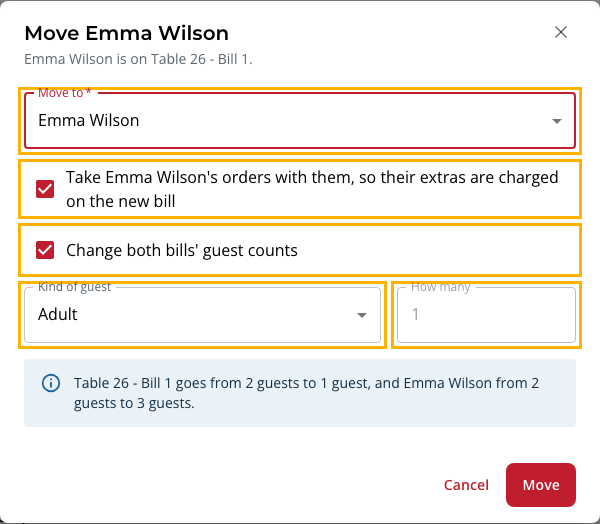
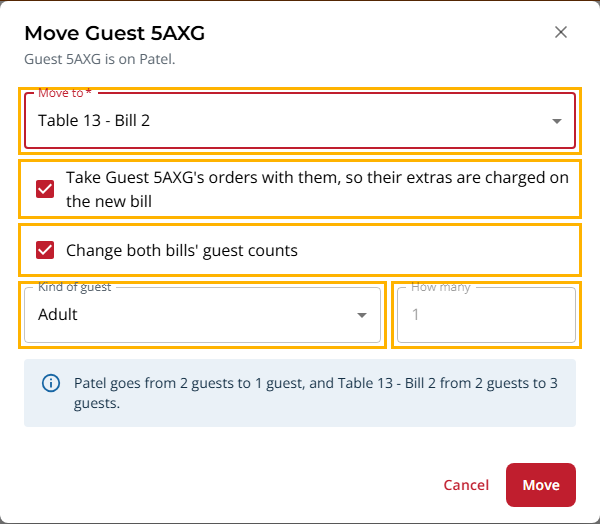
Update admin-manual docs to include splitting a bill with screenshot

diff --git a/src/front-end/e2e/screenshots/admin-manual.shots.js b/src/front-end/e2e/screenshots/admin-manual.shots.js
@@ -27,14 +27,20 @@ const settle = async (page) => {
   });
   await page
     .getByText("DEV · Reset")
-    .evaluateAll((els) => els.forEach((el) => (el.closest("button") ?? el).style.setProperty("display", "none")));
+    .evaluateAll((els) =>
+      els.forEach((el) =>
+        (el.closest("button") ?? el).style.setProperty("display", "none"),
+      ),
+    );
   await page.waitForTimeout(500);
 };
 
 /** @param {import('@playwright/test').Page} page */
 const openSessions = async (page) => {
   await page.goto("/staff/dashboard/sessions");
-  await expect(page.getByRole("button", { name: /^View session/ }).first()).toBeVisible();
+  await expect(
+    page.getByRole("button", { name: /^View session/ }).first(),
+  ).toBeVisible();
   await settle(page);
 };
 
@@ -42,7 +48,10 @@ const openSessions = async (page) => {
 /** @param {import('@playwright/test').Page} page */
 const openBusiestSession = async (page) => {
   const multiBill = page.getByRole("row").filter({ hasText: / of [2-9]/ });
-  const row = (await multiBill.count()) > 0 ? multiBill.first() : page.getByRole("row").nth(1);
+  const row =
+    (await multiBill.count()) > 0
+      ? multiBill.first()
+      : page.getByRole("row").nth(1);
   await row.getByRole("button", { name: /^View session/ }).click();
   const dialog = page.getByRole("dialog");
   await expect(dialog.getByText(/^Dining Session #/)).toBeVisible();
@@ -52,7 +61,9 @@ const openBusiestSession = async (page) => {
 
 test("getting around", async ({ page }) => {
   await page.goto("/");
-  await expect(page.getByRole("heading", { level: 1, name: /^Welcome back/ })).toBeVisible();
+  await expect(
+    page.getByRole("heading", { level: 1, name: /^Welcome back/ }),
+  ).toBeVisible();
   await settle(page);
   await highlight(page.getByLabel("Main menu"));
   await highlight(page.getByLabel(/^Working location/));
@@ -67,14 +78,19 @@ test("sessions list", async ({ page }) => {
 test("session details", async ({ page }) => {
   await openSessions(page);
   const dialog = await openBusiestSession(page);
-  await highlight(dialog.getByRole("button", { name: /^Add order to/ }).first());
+  await highlight(
+    dialog.getByRole("button", { name: /^Add order to/ }).first(),
+  );
   await dialog.screenshot({ path: file("session-details") });
 });
 
 test("bill summary", async ({ page }) => {
   await openSessions(page);
   const sessionDialog = await openBusiestSession(page);
-  await sessionDialog.getByRole("button", { name: /^View .* summary$/ }).first().click();
+  await sessionDialog
+    .getByRole("button", { name: /^View .* summary$/ })
+    .first()
+    .click();
   const summary = page.getByRole("dialog").last();
   await expect(summary).toBeVisible();
   await settle(page);
@@ -83,11 +99,15 @@ test("bill summary", async ({ page }) => {
 
 // The whole MUI text field or select, not just its input
 /** @param {import('@playwright/test').Locator} input */
-const fieldOf = (input) => input.locator('xpath=ancestor::div[contains(@class,"MuiFormControl-root")][1]');
+const fieldOf = (input) =>
+  input.locator(
+    'xpath=ancestor::div[contains(@class,"MuiFormControl-root")][1]',
+  );
 
 // The checkbox and its label text
 /** @param {import('@playwright/test').Locator} checkbox */
-const checkboxRowOf = (checkbox) => checkbox.locator("xpath=ancestor::label[1]");
+const checkboxRowOf = (checkbox) =>
+  checkbox.locator("xpath=ancestor::label[1]");
 
 // Opens each session with more than one open bill until `ready` finds what the shot needs.
 // Closes the dialog and tries the next session when it doesn't.
@@ -99,7 +119,10 @@ const openSessionWhere = async (page, ready) => {
   const rows = page.getByRole("row").filter({ hasText: / of [2-9]/ });
   const count = await rows.count();
   for (let i = 0; i < count; i++) {
-    await rows.nth(i).getByRole("button", { name: /^View session/ }).click();
+    await rows
+      .nth(i)
+      .getByRole("button", { name: /^View session/ })
+      .click();
     const dialog = page.getByRole("dialog");
     await expect(dialog.getByText(/^Dining Session #/)).toBeVisible();
     await settle(page);
@@ -115,27 +138,53 @@ const openSessionWhere = async (page, ready) => {
 // In each session with two or more open bills, people are shared across the open bills
 // (two sample guests if nobody joined), and the first open bill is marked "Started by guest".
 // The keys used here, from DashboardSessionsDto, DashboardBillDto and DashboardPersonDto
-/** @typedef {{ bill_id: number, status: string, people_on_bill?: number, started_by_guest?: boolean }} DashboardBill */
-/** @typedef {{ participant_id: number, user_name: string, bill_id: number | null }} DashboardPerson */
+/** @typedef {{ bill_id: number, status: string, people_on_bill?: number, started_by_guest?: boolean, total_guests?: number, adult_count?: number }} DashboardBill */
+/** @typedef {{ participant_id: number, user_name: string, bill_id: number | null, is_guest?: boolean }} DashboardPerson */
 /** @typedef {{ bills?: DashboardBill[], people?: DashboardPerson[] }} DashboardSession */
-/** @param {import('@playwright/test').Page} page */
-const showPeopleOnBills = (page) =>
+// splittable: gives each open bill at least 2 guests (as adults), so Move can change counts and offer
+// "+ New bill" (a bill must keep one guest). Browser only, like the rest of this mock
+/**
+ * @param {import('@playwright/test').Page} page
+ * @param {{ splittable?: boolean }} [options]
+ */
+const showPeopleOnBills = (page, { splittable = false } = {}) =>
   page.route(/\/api\/dashboard\/sessions/i, async (route) => {
     const response = await route.fetch();
     /** @type {DashboardSession[]} */
     const sessions = await response.json();
     for (const session of Array.isArray(sessions) ? sessions : []) {
-      const open = (session.bills ?? []).filter((b) => /open/i.test(String(b.status)));
+      const open = (session.bills ?? []).filter((b) =>
+        /open/i.test(String(b.status)),
+      );
       if (open.length < 2) continue;
       if (!session.people?.length) {
         session.people = [
-          { participant_id: -1, user_name: "Guest 4F2A", bill_id: null },
-          { participant_id: -2, user_name: "Guest 9C1D", bill_id: null },
+          {
+            participant_id: -1,
+            user_name: "Guest 4F2A",
+            bill_id: null,
+            is_guest: true,
+          },
+          {
+            participant_id: -2,
+            user_name: "Guest 9C1D",
+            bill_id: null,
+            is_guest: true,
+          },
         ];
       }
-      session.people.forEach((person, i) => (person.bill_id = open[i % open.length].bill_id));
+      session.people.forEach(
+        (person, i) => (person.bill_id = open[i % open.length].bill_id),
+      );
       for (const bill of open) {
-        bill.people_on_bill = session.people.filter((p) => p.bill_id === bill.bill_id).length;
+        bill.people_on_bill = session.people.filter(
+          (p) => p.bill_id === bill.bill_id,
+        ).length;
+        const missing = 2 - (bill.total_guests ?? 0);
+        if (splittable && missing > 0) {
+          bill.adult_count = (bill.adult_count ?? 0) + missing;
+          bill.total_guests = 2;
+        }
       }
       open[0].started_by_guest = true;
     }
@@ -143,18 +192,26 @@ const showPeopleOnBills = (page) =>
   });
 
 // A bill a guest started or changed, or with more people than guests
-const GUEST_CHECK_CHIP = /^(Started by guest|Count changed by guest|\d+ people on \d+-guest bill)$/;
+const GUEST_CHECK_CHIP =
+  /^(Started by guest|Count changed by guest|\d+ people on \d+-guest bill)$/;
 
 test("checking guest counts", async ({ page }) => {
   await showPeopleOnBills(page);
   await openSessions(page);
-  const dialog = await openSessionWhere(page, async (d) => (await d.getByText(GUEST_CHECK_CHIP).count()) > 0);
+  const dialog = await openSessionWhere(
+    page,
+    async (d) => (await d.getByText(GUEST_CHECK_CHIP).count()) > 0,
+  );
   const chip = dialog.getByText(GUEST_CHECK_CHIP).first();
   // The bill card: the nearest ancestor that also holds the bill's Edit Guests button
-  const bill = chip.locator('xpath=ancestor::*[.//button[starts-with(@aria-label, "Edit guests on")]][1]');
+  const bill = chip.locator(
+    'xpath=ancestor::*[.//button[starts-with(@aria-label, "Edit guests on")]][1]',
+  );
   await highlight(chip);
   await highlight(bill.getByRole("button", { name: /^Edit guests on/ }));
-  await highlight(bill.getByRole("button", { name: /^(Lock|Unlock) guests on/ }));
+  await highlight(
+    bill.getByRole("button", { name: /^(Lock|Unlock) guests on/ }),
+  );
   await bill.screenshot({ path: file("guest-check") });
 
   await bill.getByRole("button", { name: /^Edit guests on/ }).click();
@@ -167,21 +224,41 @@ test("checking guest counts", async ({ page }) => {
   await edit.screenshot({ path: file("edit-guests-dialog") });
 });
 
+// Each Move button's row (its parent) shows the person's bill, or "Not on a bill yet"
+/** @param {import('@playwright/test').Locator} d */
+const onABill = (d) =>
+  d
+    .getByRole("button", { name: /^Move / })
+    .locator("xpath=..")
+    .filter({ hasNotText: "Not on a bill yet" });
+
 test("moving people between bills", async ({ page }) => {
-  await showPeopleOnBills(page);
+  await showPeopleOnBills(page, { splittable: true });
   await openSessions(page);
-  // Someone already on a bill, so every option in the dialog shows. Each Move button's
-  // row (its parent) shows the person's bill, or "Not on a bill yet"
-  const onABill = (/** @type {import('@playwright/test').Locator} */ d) =>
-    d.getByRole("button", { name: /^Move / }).locator("xpath=..").filter({ hasNotText: "Not on a bill yet" });
-  const dialog = await openSessionWhere(page, async (d) => (await onABill(d).count()) > 0);
-  await onABill(dialog).first().getByRole("button", { name: /^Move / }).click();
+  // Someone already on a bill, so every option in the dialog shows
+  const dialog = await openSessionWhere(
+    page,
+    async (d) => (await onABill(d).count()) > 0,
+  );
+  await onABill(dialog)
+    .first()
+    .getByRole("button", { name: /^Move / })
+    .click();
 
   const move = page.getByRole("dialog").last();
   await move.getByLabel("Move to").click();
-  await page.getByRole("option").first().click();
-  const changeCounts = move.getByRole("checkbox", { name: "Change both bills' guest counts" });
-  if (await changeCounts.isEnabled()) await changeCounts.check();
+  // An existing bill; "+ New bill" has its own shot
+  await page
+    .getByRole("option")
+    .filter({ hasNotText: /^\+ New bill/ })
+    .first()
+    .click();
+  // The label only reads this way when the counts can change, so don't wait for it otherwise
+  const changeCounts = move.getByRole("checkbox", {
+    name: "Change both bills' guest counts",
+  });
+  if ((await changeCounts.count()) > 0 && (await changeCounts.isEnabled()))
+    await changeCounts.check();
   await settle(page);
 
   await highlight(fieldOf(move.getByLabel("Move to")));
@@ -195,10 +272,44 @@ test("moving people between bills", async ({ page }) => {
   await move.screenshot({ path: file("move-person-dialog") });
 });
 
+test("splitting a bill", async ({ page }) => {
+  await showPeopleOnBills(page, { splittable: true });
+  await openSessions(page);
+  const dialog = await openSessionWhere(
+    page,
+    async (d) => (await onABill(d).count()) > 0,
+  );
+  await onABill(dialog)
+    .first()
+    .getByRole("button", { name: /^Move / })
+    .click();
+
+  const move = page.getByRole("dialog").last();
+  await move.getByLabel("Move to").click();
+  await page.getByRole("option", { name: /^\+ New bill:/ }).click();
+  const preview = move
+    .getByRole("alert")
+    .filter({ hasText: /starts with \d+ guests?\./ });
+  await expect(preview).toBeVisible();
+  await settle(page);
+
+  await highlight(fieldOf(move.getByLabel("Move to")));
+  await highlight(
+    checkboxRowOf(
+      move.getByRole("checkbox", { name: /count for the new bill$/ }),
+    ),
+  );
+  await highlight(preview);
+  await move.screenshot({ path: file("split-bill-dialog") });
+});
+
 test("merging bills", async ({ page }) => {
   await openSessions(page);
   const dialog = await openBusiestSession(page);
-  await dialog.getByRole("button", { name: /^Merge .* into another bill$/ }).first().click();
+  await dialog
+    .getByRole("button", { name: /^Merge .* into another bill$/ })
+    .first()
+    .click();
 
   const merge = page.getByRole("dialog").last();
   await merge.getByLabel("Merge into").click();
@@ -232,7 +343,9 @@ test("pricing form", async ({ page }) => {
   // Tall enough for the whole form, so the sticky save bar sits at the bottom
   await page.setViewportSize({ width: 1280, height: 1150 });
   await page.goto("/admin/pricing");
-  await expect(page.getByRole("heading", { name: "Default Pricing" })).toBeVisible();
+  await expect(
+    page.getByRole("heading", { name: "Default Pricing" }),
+  ).toBeVisible();
   await settle(page);
   await page.screenshot({ path: file("pricing-form") });
 });
@@ -251,10 +364,14 @@ test("bulk QR codes", async ({ page }) => {
   await page.goto("/admin/qr-codes");
   await page.getByLabel("Location", { exact: true }).click();
   await page.getByRole("option").first().click();
-  const generate = page.getByRole("button", { name: /^Generate QR Codes for All/ });
+  const generate = page.getByRole("button", {
+    name: /^Generate QR Codes for All/,
+  });
   await expect(generate).toBeEnabled();
   await generate.click();
-  await expect(page.getByRole("button", { name: /Download as PDF/ })).toBeVisible({ timeout: 60_000 });
+  await expect(
+    page.getByRole("button", { name: /Download as PDF/ }),
+  ).toBeVisible({ timeout: 60_000 });
   await settle(page);
   const bulk = page.locator(".MuiPaper-root", {
     has: page.getByRole("heading", { name: "Bulk QR Code Generation" }),

diff --git a/docs/admin/admin-manual.md b/docs/admin/admin-manual.md
@@ -45,15 +45,15 @@ At the top are three counts: **Active Sessions**, **Tables In Use** and **Pendin
 
 Each row shows:
 
-| Column | What it shows |
-| --- | --- |
-| Session | The session number |
-| Table | The table or table group the party is seated at. A **Check guests** chip means a bill's guest count needs checking (see [Checking guest counts](#checking-guest-counts)); select it to open the session |
-| Requests | How many service requests ("call server") are waiting |
-| Started | When the party was seated |
-| Seated For | How long they have been seated. Turns orange after 90 minutes |
-| Guests | The number of guests across the session's bills. Cancelled bills aren't counted |
-| Open Bills | Open bills out of total bills, e.g. "1 of 2" |
+| Column     | What it shows                                                                                                                                                                                           |
+| ---------- | ------------------------------------------------------------------------------------------------------------------------------------------------------------------------------------------------------- |
+| Session    | The session number                                                                                                                                                                                      |
+| Table      | The table or table group the party is seated at. A **Check guests** chip means a bill's guest count needs checking (see [Checking guest counts](#checking-guest-counts)); select it to open the session |
+| Requests   | How many service requests ("call server") are waiting                                                                                                                                                   |
+| Started    | When the party was seated                                                                                                                                                                               |
+| Seated For | How long they have been seated. Turns orange after 90 minutes                                                                                                                                           |
+| Guests     | The number of guests across the session's bills. Cancelled bills aren't counted                                                                                                                         |
+| Open Bills | Open bills out of total bills, e.g. "1 of 2"                                                                                                                                                            |
 
 Rows with waiting service requests are highlighted and sorted to the top. Press **Refresh** to reload the list.
 
@@ -110,7 +110,18 @@ On each open bill:
 
 ![Move dialog with Move to, Take their orders with them, Change both bills' guest counts, Kind of guest and How many outlined](images/move-person-dialog.png)
 
-To split a bill by person, start a new bill and move each person onto it with their orders.
+#### Splitting a bill
+
+To split someone off onto their own bill, select **Move** next to them, then choose **+ New bill: {name}** from the **Move to** list. In one step this:
+
+- Starts a new bill named after them. Guest accounts (for example "Guest K7P2") and people with no name get the old bill's name with a number instead, such as "Birthday dinner 1".
+- Moves the guests you choose under **Kind of guest** and **How many** off the old bill's count and onto the new bill, so the table's guest total doesn't change. This is always on for a new bill.
+- Moves their orders too, if **Take their orders with them** is ticked, so their extras are charged on the new bill.
+- Shares the table's leftover fee, if one was applied, evenly across all open bills again, including the new one.
+
+**+ New bill** only appears when the person's bill is open and has at least two guests, since the old bill must keep at least one. It works even if their guest counts are locked. Repeat for each person to split a bill further.
+
+![The Move dialog with + New bill selected, showing the guests taken off the old bill](images/split-bill-dialog.png)
 
 ### Merging bills
 
@@ -330,6 +341,7 @@ The Menu Items page lists every dish with its image, name, category, description
   - **Limits per person** (Adult, Senior, Child, Toddler): the most each guest can order of this item during the visit. 0 = unlimited. Senior and child limits can't be more than the adult limit; a toddler limit of 0 uses the child limit.
   - **Per order limit**: the most the whole table can order in one order. 0 = no cap. Orders over this limit are always blocked.
   - **Past per-person limit**: **Block** stops guests ordering more, **Charge the item's price** lets them and bills the item's price for each extra.
+
 - **Delete**: remove the item. It will no longer be available to order.
 
 ![Menu Assignments dialog with the item's current assignments and the form for adding a new one](images/menu-assignment-dialog.png)
